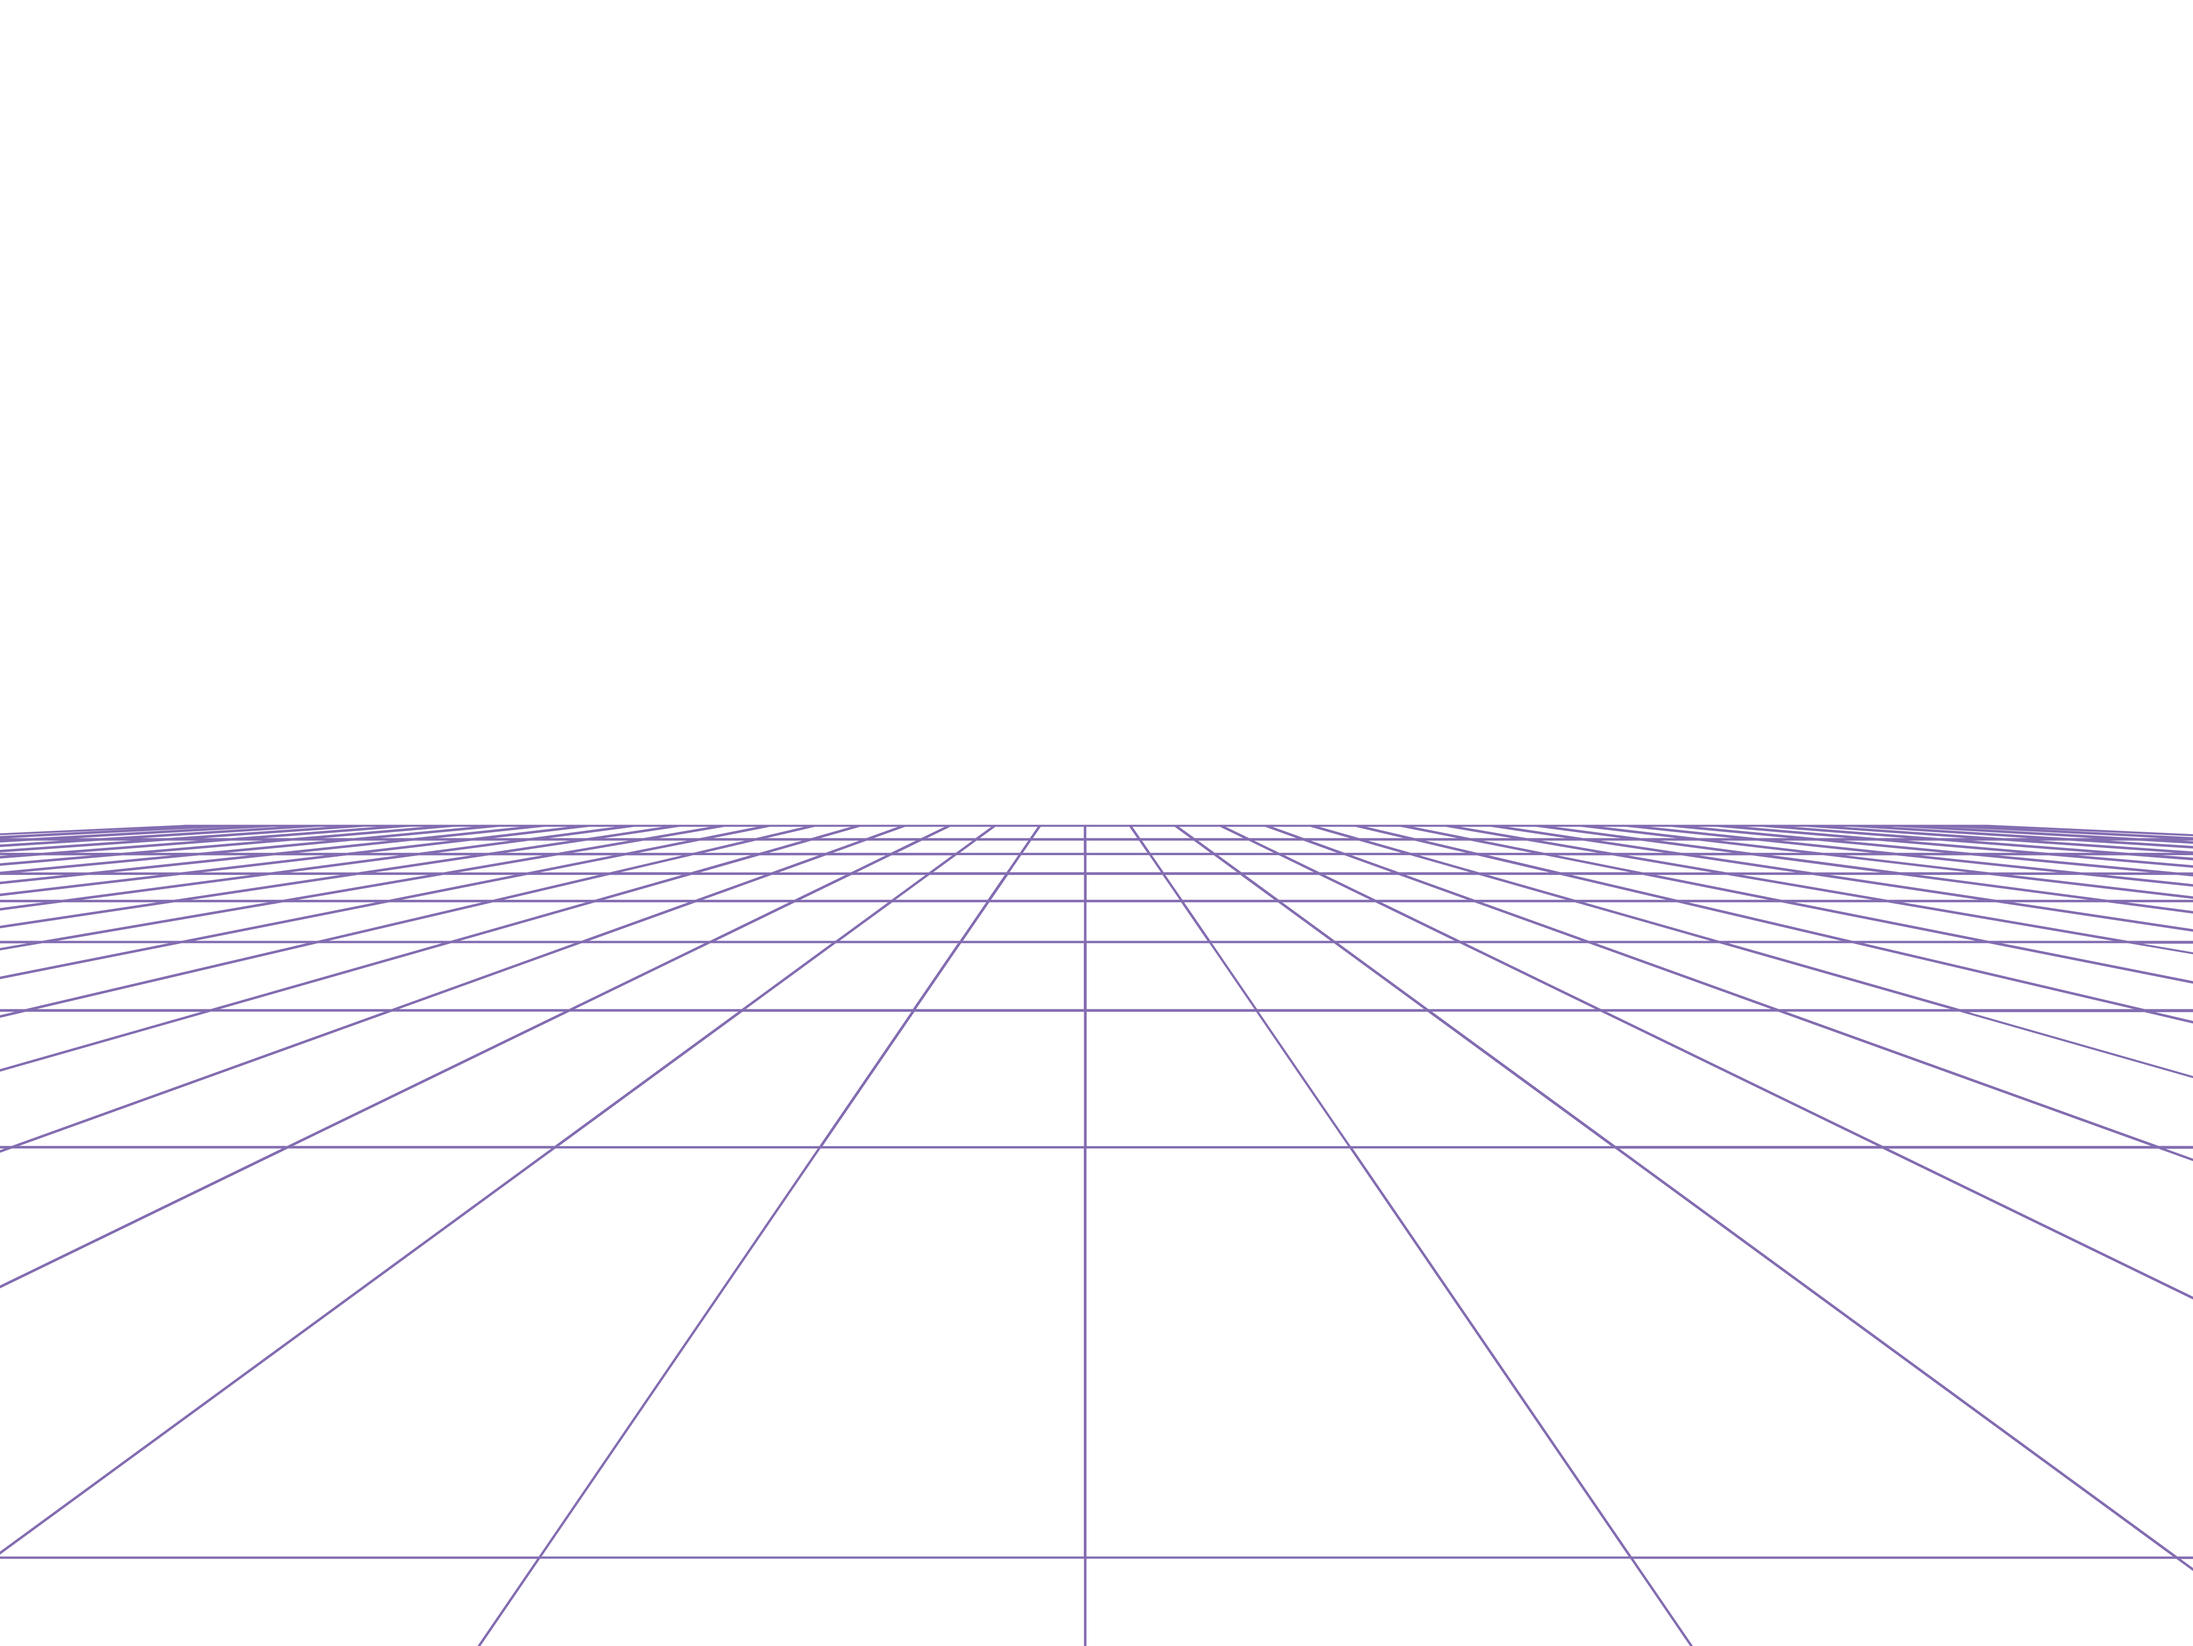
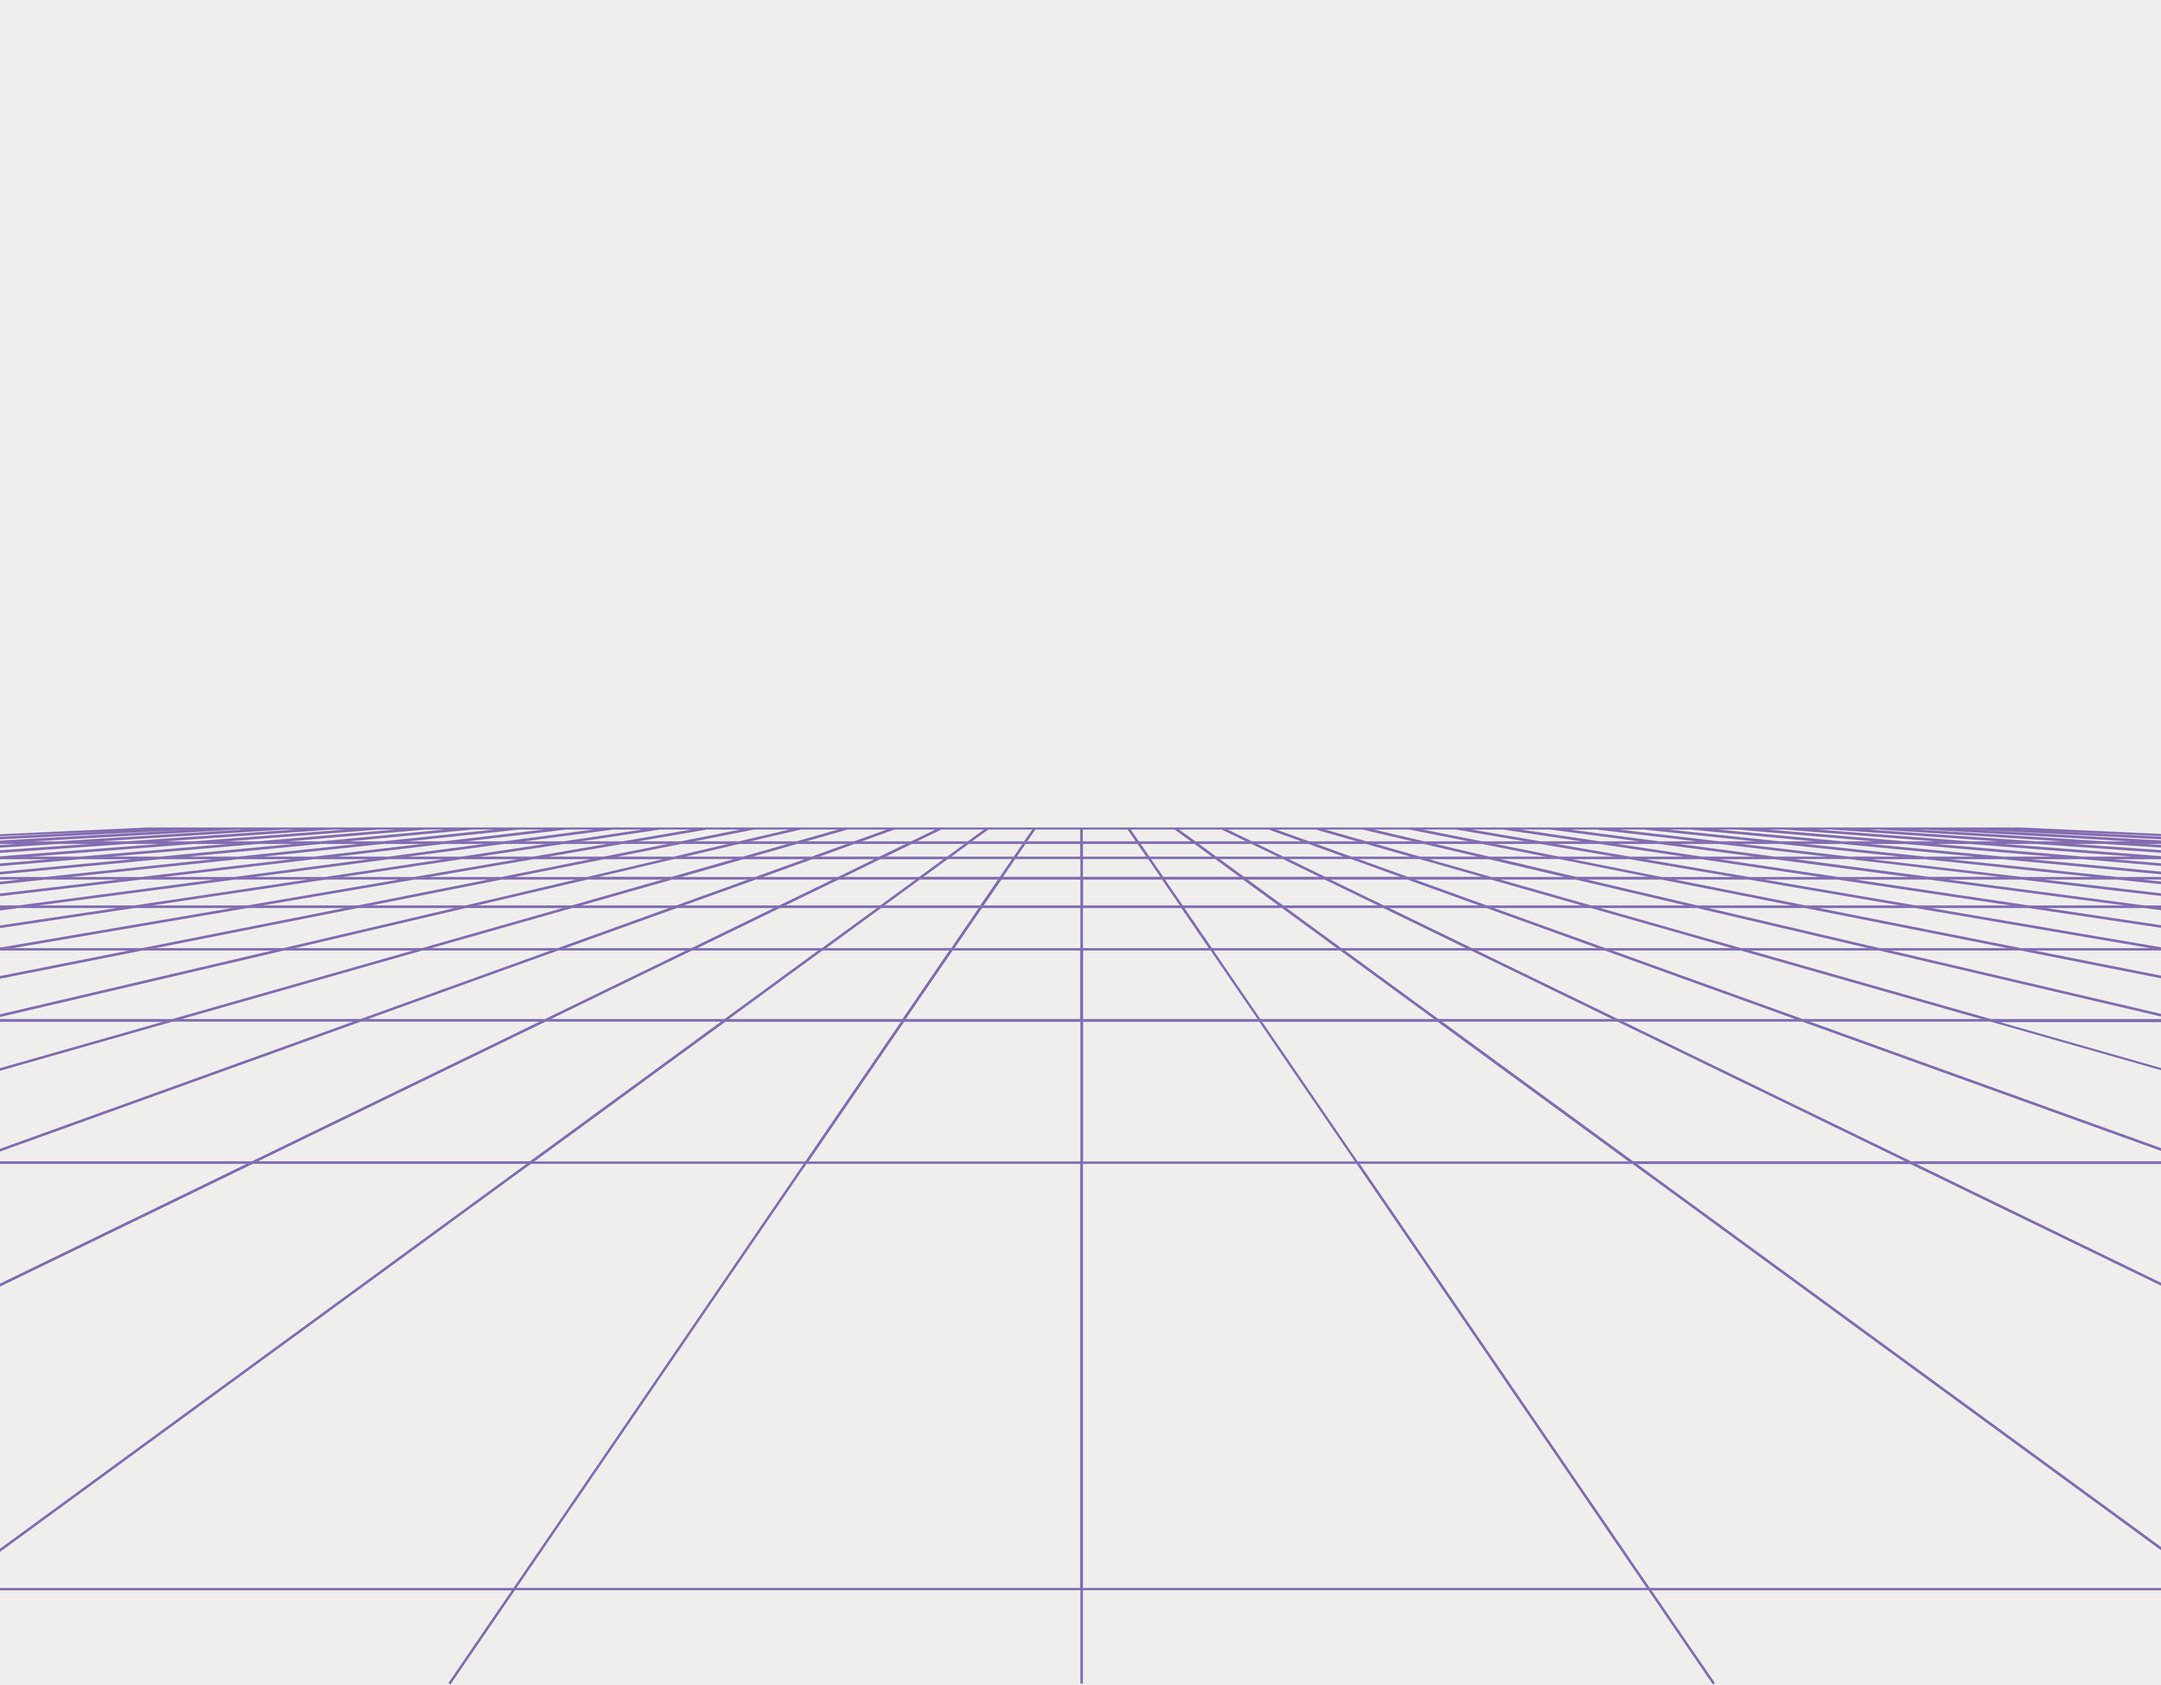
Add files via upload

diff --git a/index.html b/index.html
@@ -256,19 +256,23 @@
     .what-text .section-label { color: var(--deep-purple); margin-bottom: 0.8rem; }
     .what-text h2 { font-size: clamp(1.9rem, 3.5vw, 2.8rem); color: var(--navy); margin-bottom: 1.2rem; }
     .what-text p  { color: var(--navy); margin-bottom: 1rem; }
-    .what-visual  {
-      display: flex; align-items: center; justify-content: center;
+    .what-visual {
+      display: flex;
+      align-items: center;
+      justify-content: center;
       overflow: hidden;
       position: relative;
       min-height: 500px;
       align-self: center;
+      background: var(--off-white);
+      border-radius: 8px;
     }
     .what-visual::before {
       content: '';
       position: absolute;
       inset: 0;
       background-image: url('grid-purple.png');
-      background-size: contain;
+      background-size: cover;
       background-position: center center;
       background-repeat: no-repeat;
       animation: grid-zoom 30s ease-in-out infinite;
@@ -282,7 +286,7 @@
         transform: scale(1);
       }
       50% {
-        transform: scale(2);
+        transform: scale(2.5);
       }
     }
     @keyframes shapes-breathe {
